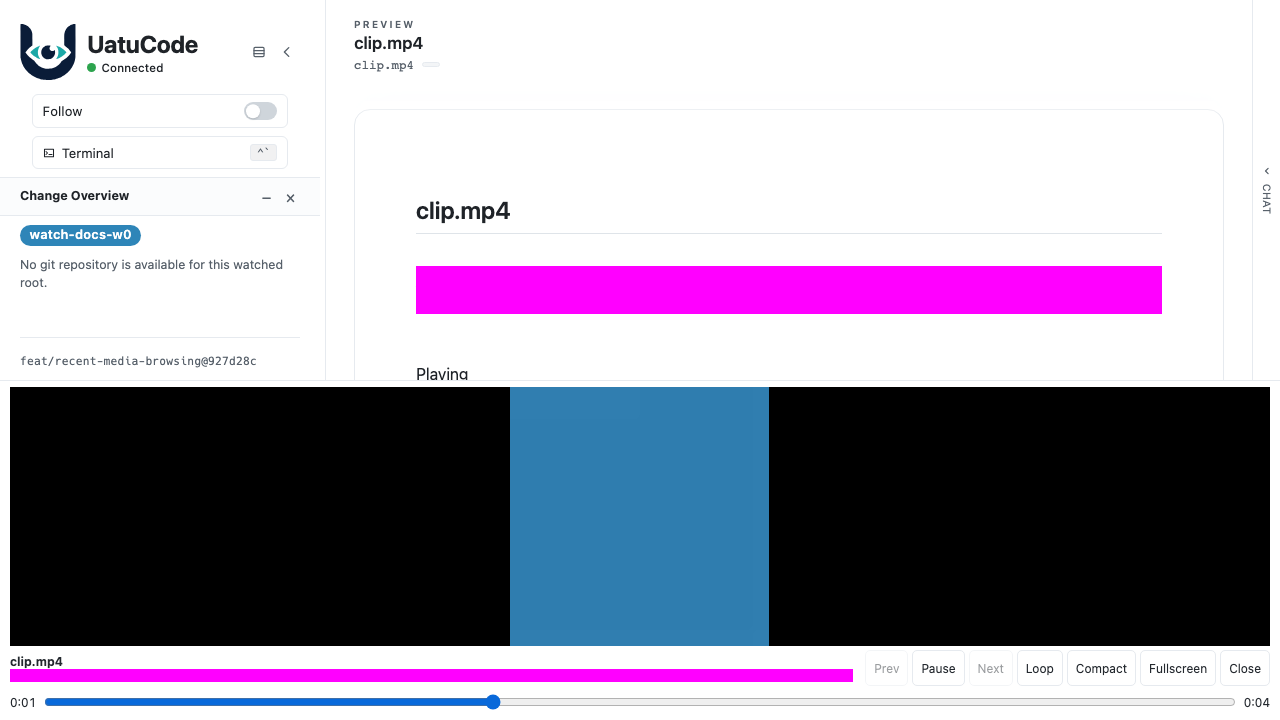
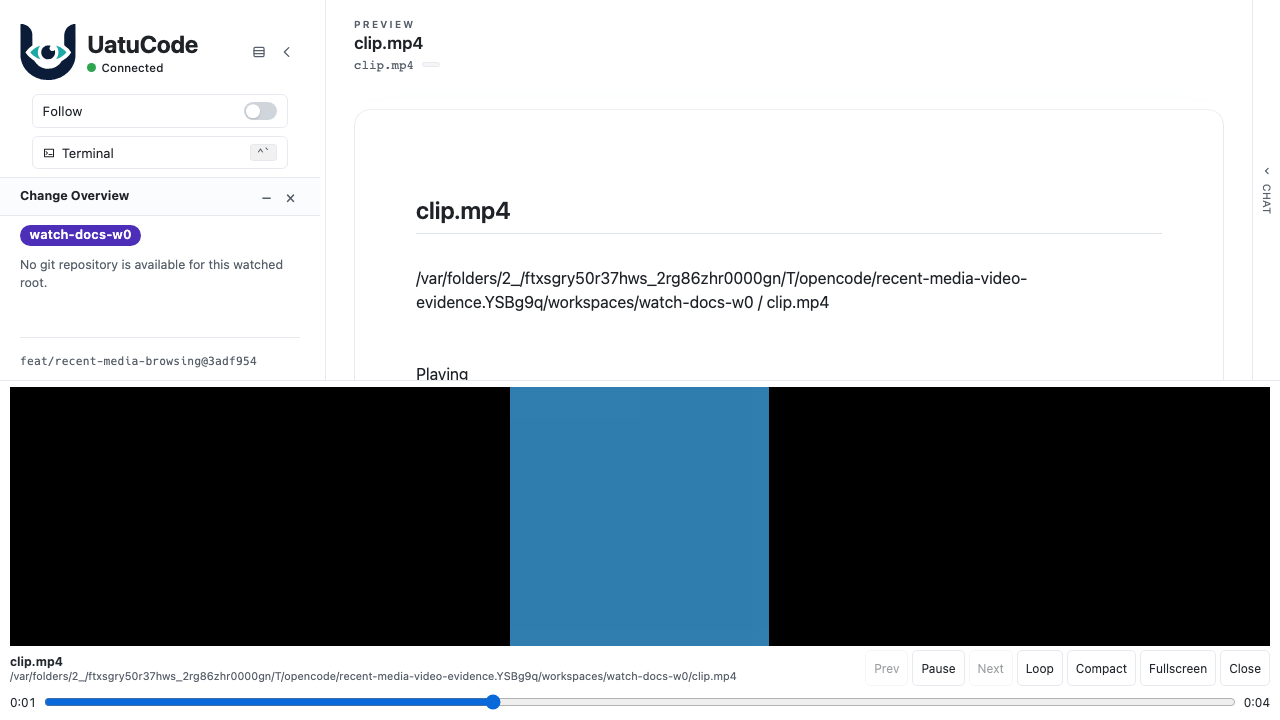
test(media): remove masks from video screenshots

diff --git a/tests/e2e/media-playback.e2e.ts b/tests/e2e/media-playback.e2e.ts
@@ -214,10 +214,7 @@ for (const engine of ["chromium", "webkit"] as const) {
       await expect(dock(page).getByRole("slider", { name: "Playback position" })).toBeVisible();
       await page.evaluate(() => document.fonts.ready);
       const screenshot = evidencePath(info, `${engine}-native-h264.png`);
-      await page.screenshot({ path: screenshot, animations: "disabled", caret: "hide", mask: [
-        page.locator(".media-preview > p:not([role])"),
-        dock(page).locator(".media-dock-identity > span"),
-      ] });
+      await page.screenshot({ path: screenshot, animations: "disabled", caret: "hide" });
       await recordEvidence(info, screenshot);
       const fullscreen = dock(page).getByRole("button", { name: "Fullscreen video" });
       if (await fullscreen.isVisible()) {

diff --git a/openspec/changes/add-recent-media-browsing/screenshots/README.md b/openspec/changes/add-recent-media-browsing/screenshots/README.md
@@ -8,10 +8,10 @@ PR-time capture using `tests/e2e/evidence.ts`, Bun 1.4.4, and Playwright Chromiu
 
 | Browser | Expanded H264 video with playback controls | Decode report |
 | --- | --- | --- |
-| Chromium | [Video](chromium-native-h264.png), 43,156 bytes | [Checks](chromium-video-codec.txt), 189 bytes |
-| WebKit | [Video](webkit-native-h264.png), 68,549 bytes | [Checks](webkit-video-codec.txt), 189 bytes |
+| Chromium | [Video](chromium-native-h264.png), 68,331 bytes | [Checks](chromium-video-codec.txt), 189 bytes |
+| WebKit | [Video](webkit-native-h264.png), 96,072 bytes | [Checks](webkit-video-codec.txt), 189 bytes |
 
-Both 1280 × 720 screenshots visibly show a browser-decoded frame from the synthetic four-second, 32 × 32 solid-blue H264 Baseline fixture. The square frame is displayed at about 259 × 259 pixels inside the expanded player, with black pillarboxing, Pause, Compact, Fullscreen, and seek controls. This fixture contains solid-color frames, not production animation content. Pink masks cover only temporary workspace-path labels; the decoded video and controls are unobscured. Both final images were visually reviewed.
+Both 1280 × 720 screenshots visibly show a browser-decoded frame from the synthetic four-second, 32 × 32 solid-blue H264 Baseline fixture. The square frame is displayed at about 259 × 259 pixels inside the expanded player, with black pillarboxing, Pause, Compact, Fullscreen, and seek controls. This fixture contains solid-color frames, not production animation content. Synthetic temporary workspace paths appear normally, as in the audio evidence. Both final images were visually reviewed.
 
 The targeted H264 tests **passed 2/2 in 2.7 seconds**, using Bun 1.4.4, one worker, and zero retries. Checks verify actual `videoWidth=32`, native playback, seeking to at least 1.4 seconds, the same single video element after expansion, `readyState >= 2`, completed seeking, and visible controls. Canvas sampling of the decoded video returned RGBA `[47,125,175,255]` in Chromium and `[64,136,184,255]` in WebKit. Capture happens before fullscreen; the existing fullscreen and Close assertions still run afterward.
 
@@ -23,7 +23,7 @@ The targeted H264 tests **passed 2/2 in 2.7 seconds**, using Bun 1.4.4, one work
 | Playback persists while sending a Chat message; Loop is enabled | [Chat](chromium-generated-media-chat.png), 36,796 bytes | [Chat](webkit-generated-media-chat.png), 46,900 bytes |
 | After explicit Reload and resuming playback: new 10-second render, Loop reset, latest write first | [Reloaded](chromium-generated-media-reloaded.png), 48,653 bytes | [Reloaded](webkit-generated-media-reloaded.png), 62,178 bytes |
 
-The six audio-workflow PNGs total 311,323 bytes. Supporting reports: [Chromium](chromium-media-workflow.json), 304 bytes; [WebKit](webkit-media-workflow.json), 303 bytes. The two additional video PNGs total 111,705 bytes.
+The six audio-workflow PNGs total 311,323 bytes. Supporting reports: [Chromium](chromium-media-workflow.json), 304 bytes; [WebKit](webkit-media-workflow.json), 303 bytes. The two additional video PNGs total 164,403 bytes.
 
 ## Verification
 
